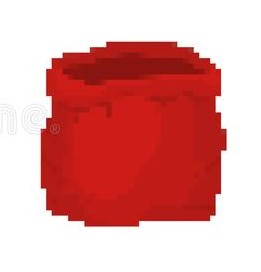
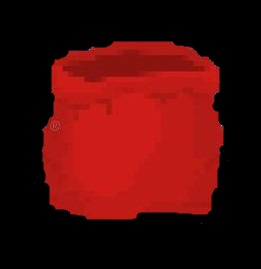
норм картинки в falling_things + 1 коректировка в main

diff --git a/things_falling/mini_game_falling.py b/things_falling/mini_game_falling.py
@@ -13,9 +13,13 @@ screen = pygame.display.set_mode(size)
 pygame.display.set_caption("Falling things")
 things_list = []
 bombs = []
-life = [1, 2, 3]
+life = [1, 2, 3, 4, 5]
 loosing_count = 0
 all_sprites = pygame.sprite.Group()
+board = pygame.sprite.Sprite()
+group_balls = pygame.sprite.Group()
+group_bombs = pygame.sprite.Group()
+group_board = pygame.sprite.Group()
 clock = pygame.time.Clock()
 
 
@@ -36,90 +40,102 @@ def load_image(name, colorkey=None):
 
 
 class Ball(pygame.sprite.Sprite):
-    image = load_image('tree.png', -1)
-
-    def __init__(self, x, y):
-        super().__init__(all_sprites)
-        self.image = Ball.image
-        self.image = pygame.transform.scale(self.image, (4, 4))
-        self.size = self.image.get_size()
+    def __init__(self, x, y, image):
+        super().__init__(group_balls, all_sprites)
+        self.image = image
         self.rect = self.image.get_rect()
-        self.rect.x = x
-        self.rect.y = y
+        self.x = x
+        self.y = y
+        self.rect.x = self.x
+        self.rect.y = self.y
 
     def update(self):
-        '''pygame.draw.circle(screen, WHITE, (self.rect.x, self.rect.y), 5)
-        self.rect = pygame.Rect(self.rect.x, self.rect.y, 4, 4)'''
-        self.rect.x = x
-        self.rect.y = y
+        global loosing_count
+        self.y += 1
+        if self.y > height - 50:
+            loosing_count += 1
+            print(loosing_count)
+            self.y = random.randrange(-50, -10)
+            self.x = random.randrange(0, width - 5)
+        '''pygame.draw.rect(screen, WHITE, (self.x, self.y, 10, 10))'''
+        self.rect = pygame.Rect(self.x, self.y, 10, 10)
 
 
 class Bomb(pygame.sprite.Sprite):
-    image = load_image('stone.png')
-
-    def __init__(self, x, y):
-        super().__init__(all_sprites)
-        self.image = Ball.image
-        self.size = self.image.get_size()
+    def __init__(self, x, y, image):
+        super().__init__(group_bombs, all_sprites)
+        self.image = image
         self.rect = self.image.get_rect()
-        self.rect.x = x
-        self.rect.y = y
+        self.x = x
+        self.y = y
+        self.rect.x = self.x
+        self.rect.y = self.y
 
     def update(self):
-        '''pygame.draw.circle(screen, RED, (self.x, self.y), 7)
-        self.rect = pygame.Rect(self.x, self.y, 6, 6)'''
-        self.rect.x = x
-        self.rect.y = y
+        self.y += 1
+        if self.y > height - 50:
+            self.y = random.randrange(-50, -10)
+            self.x = random.randrange(0, width - 5)
+        '''pygame.draw.circle(screen, RED, (self.x, self.y), 7)'''
+        self.rect = pygame.Rect(self.x, self.y, 6, 6)
 
 
 class Bar(pygame.sprite.Sprite):
-    image = load_image('bag.jpg')
-
-    def __init__(self, x, y):
-        super().__init__(all_sprites)
-        self.image = Ball.image
-        self.size = self.image.get_size()
+    def __init__(self, x, y, image):
+        super().__init__(group_board, all_sprites)
+        self.image = image
         self.rect = self.image.get_rect()
-        self.rect.x = x
-        self.rect.y = y
+        self.x = x
+        self.y = y
         self.w = 100
         self.h = 10
+        self.rect.x = self.x
+        self.rect.y = self.y
 
     def update(self):
-        '''pygame.draw.rect(screen, (0, 0, 190), (self.x, self.y, self.w, self.h))
-        self.rect = pygame.Rect(self.x, self.y, self.w, self.h)'''
-        self.rect.x = x
-        self.rect.y = y
+        '''pygame.draw.rect(screen, (0, 0, 190), (self.x, self.y, self.w, self.h))'''
+        self.rect = pygame.Rect(self.x - 30, self.y, self.w, self.h)
 
 
 def collision():
     for n, brick in enumerate(things_list):
         if brick.rect.colliderect(bar):
+            things_list[n].kill()
             things_list.pop(n)
+            print(len(things_list))
     for n, bomb in enumerate(bombs):
         if bomb.rect.colliderect(bar):
+            bombs[n].kill()
             bombs.pop(n)
             if life:
                 life.pop(-1)
 
 
 if __name__ == '__main__':
+    image_things = load_image('tree.png', -1)
+    image_things = pygame.transform.scale(image_things, (50, 50))
+    image_bomb = load_image('stone.png', -1)
+    image_bomb = pygame.transform.scale(image_bomb, (30, 30))
+    image_board = load_image('bag.jpg', -1)
+    image_board = pygame.transform.scale(image_board, (150, 60))
+    image_life = load_image('heart.jpg', -1)
+    image_life = pygame.transform.scale(image_life, (25, 25))
     for i in range(20):
         x = random.randrange(0, width - 5)
         y = random.randrange(-350, 300)
-        things_list.append(Ball(x, y))
+        things_list.append(Ball(x, y, image_things))
         if i % 5 == 0:
-            bombs.append(Bomb(random.randrange(0, width - 5), random.randrange(-350, 300)))
+            bombs.append(Bomb(random.randrange(0, width - 5), random.randrange(-350, 300), image_bomb))
 
-    bar = Bar(width // 2 - 65, height - 50)
+    bar = Bar(width // 2 - 65, height - 50, image_board)
     running = True
     while running:
         keys = pygame.key.get_pressed()
         for event in pygame.event.get():
             if event.type == pygame.QUIT:
                 running = False
-            '''if not life:
-                running = False'''
+            if not life:
+                running = False
         if keys[pygame.K_LEFT] or keys[pygame.K_a]:
             left_move = True
             right_move = False
@@ -129,44 +145,32 @@ if __name__ == '__main__':
         else:
             left_move = False
             right_move = False
-        if left_move and bar.rect.x > 5:
-            bar.rect.x -= 4
-        if right_move and bar.rect.x < width - 65:
-            bar.rect.x += 4
-        screen.fill((255, 0, 255))
+        if left_move and bar.x > 5:
+            bar.x -= 4
+        if right_move and bar.x < width - 65:
+            bar.x += 4
+        screen.fill(BLACK)
 
         for i in range(len(things_list)):
             Ball.update(things_list[i])
-            things_list[i].rect.y += 1
-
-            if things_list[i].rect.y > height - 50:
-                loosing_count += 1
-                print(loosing_count)
-                y = random.randrange(-50, -10)
-                things_list[i].rect.y = y
-                x = random.randrange(0, width - 5)
-                things_list[i].rect.x = x
 
         for i in range(len(bombs)):
             Bomb.update(bombs[i])
-            bombs[i].rect.y += 1
 
-            if bombs[i].rect.y > height - 50:
-                y = random.randrange(-50, -10)
-                bombs[i].rect.y = y
-                x = random.randrange(0, width - 5)
-                bombs[i].rect.x = x
         if loosing_count >= 10:
             life.pop(-1)
             loosing_count = 0
-        all_sprites.draw(screen)
-        all_sprites.update()
+
         for i in life:
-            pygame.draw.rect(screen, RED, (20 * i, 580, 15, 15))
+            life_rect = image_life.get_rect(center=(30 * i, 580))
+            screen.blit(image_life, life_rect)
+            '''pygame.draw.rect(screen, RED, (20 * i, 580, 15, 15))'''
 
         bar.update()
+        group_balls.draw(screen)
+        group_bombs.draw(screen)
+        group_board.draw(screen)
         collision()
         pygame.display.flip()
-
         clock.tick(60)
     pygame.quit()
